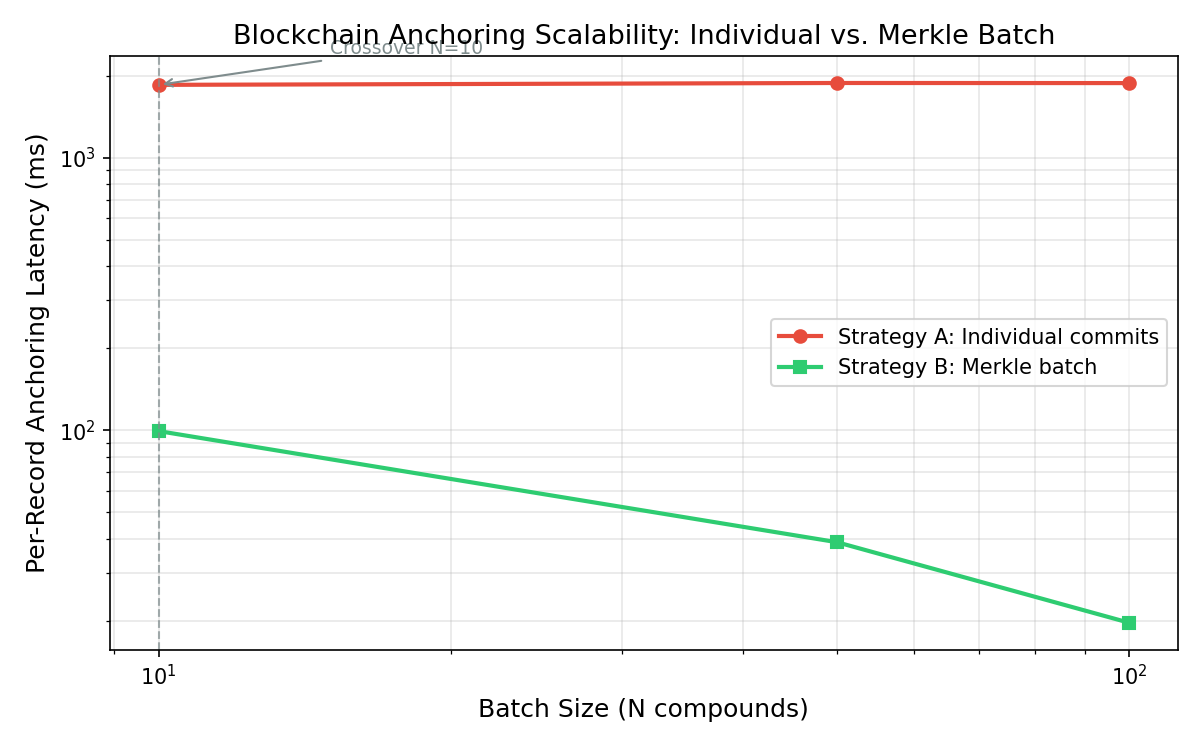
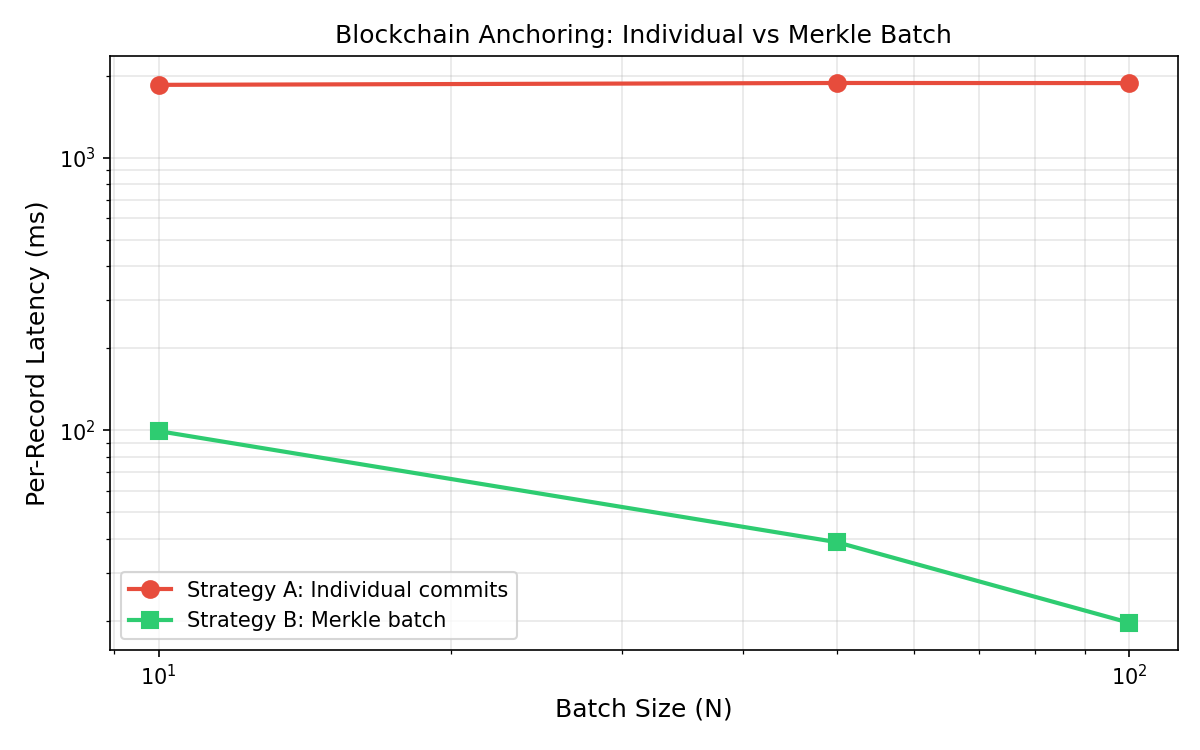
Add all 7 paper figures (V-B through V-H)
- fig_vb: Edge throughput grouped bars (CHEMBL243 + hERG with OOM labels)
- fig_vc: PoA2 consensus latency bars with min/max error + P95 markers
- fig_vd: MQTT sequential vs async pipeline + E2E latency per message
- fig_ve: Scalability crossover plot with speedup annotations (real chain)
- fig_vf: ONNX inference latency horizontal bars (log scale, all DET)
- fig_vg: Tamper detection hash divergence visual (green/red)
- fig_vh: Blockchain overhead bar chart (+1.4s/41% vs +0.7s/4.9%)

diff --git a/experiments/generate_all_figures.py b/experiments/generate_all_figures.py
@@ -1,0 +1,341 @@
+#!/usr/bin/env python3
+"""
+Generate all paper figures for the IoT reframing sections V-B through V-H.
+Reads from results/ JSON/CSV files. Outputs PNG to results/paper_tables/.
+"""
+
+import os
+import sys
+import json
+
+import numpy as np
+import pandas as pd
+import matplotlib
+matplotlib.use("Agg")
+import matplotlib.pyplot as plt
+import matplotlib.patches as mpatches
+
+PROJECT_ROOT = os.path.dirname(os.path.dirname(os.path.abspath(__file__)))
+RESULTS = os.path.join(PROJECT_ROOT, "results")
+OUT = os.path.join(RESULTS, "paper_tables")
+os.makedirs(OUT, exist_ok=True)
+
+COLORS = ["#3498db", "#2ecc71", "#f39c12", "#e74c3c", "#9b59b6"]
+
+
+def fig_vb_edge():
+    """V-B: Throughput grouped bar chart — both targets side by side."""
+    df = pd.read_csv(os.path.join(RESULTS, "edge_benchmark.csv"))
+
+    fig, axes = plt.subplots(1, 2, figsize=(14, 5), sharey=False)
+    tiers = ["server", "rpi4", "jetson_nano", "constrained"]
+    tier_labels = ["Server", "RPi4", "Jetson\nNano", "Constrained"]
+
+    for ax, target, title in zip(
+        axes,
+        ["CHEMBL243", "CHEMBL240"],
+        ["CHEMBL243 (HIV-1 Protease, 67 MB)", "CHEMBL240 (hERG, 322 MB)"],
+    ):
+        tdf = df[df["target"] == target]
+        batch_sizes = sorted(tdf["n_compounds"].unique())
+        x = np.arange(len(tiers))
+        width = 0.2
+
+        for i, N in enumerate(batch_sizes):
+            vals = []
+            for t in tiers:
+                sel = tdf[(tdf["profile"] == t) & (tdf["n_compounds"] == N)]
+                if not sel.empty and sel.iloc[0]["success"]:
+                    vals.append(sel.iloc[0]["throughput_cpm"])
+                else:
+                    vals.append(0)
+            bars = ax.bar(x + (i - len(batch_sizes)/2 + 0.5) * width, vals,
+                          width, label=f"N={N}", color=COLORS[i % len(COLORS)])
+            # Mark OOM
+            for j, v in enumerate(vals):
+                if v == 0:
+                    ax.text(x[j] + (i - len(batch_sizes)/2 + 0.5) * width, 50,
+                            "OOM", ha="center", va="bottom", fontsize=7,
+                            color="red", fontweight="bold")
+
+        ax.set_xlabel("Hardware Tier", fontsize=11)
+        ax.set_ylabel("Throughput (compounds / min)", fontsize=11)
+        ax.set_xticks(x)
+        ax.set_xticklabels(tier_labels, fontsize=9)
+        ax.set_title(title, fontsize=11)
+        ax.legend(fontsize=8, title="Batch size")
+        ax.grid(True, alpha=0.3, axis="y")
+
+    fig.suptitle("Fig. V-B: Edge Deployment Throughput", fontsize=13, y=1.02)
+    fig.tight_layout()
+    path = os.path.join(OUT, "fig_vb_edge_throughput.png")
+    fig.savefig(path, dpi=150, bbox_inches="tight")
+    plt.close(fig)
+    print(f"  {path}")
+
+
+def fig_vc_consensus():
+    """V-C: Consensus latency — baseline vs sustained with error bars."""
+    with open(os.path.join(RESULTS, "failure_test.json")) as f:
+        d = json.load(f)
+
+    bl = d["baseline_latencies"]
+    sl = d["sustained_latencies"]
+    n_val = d.get("validators", {}).get("count", "?")
+
+    fig, ax = plt.subplots(figsize=(7, 4.5))
+
+    labels = [f"Baseline\n(N={bl['n']})", f"Sustained\n(N={sl['n']})"]
+    medians = [bl["median_ms"], sl["median_ms"]]
+    mins = [bl["min_ms"], sl["min_ms"]]
+    maxs = [bl["max_ms"], sl["max_ms"]]
+    p95s = [bl["p95_ms"], sl["p95_ms"]]
+
+    x = np.arange(len(labels))
+    bars = ax.bar(x, medians, 0.5, color=[COLORS[0], COLORS[1]], edgecolor="black",
+                  linewidth=0.5)
+    # Error bars: min to max
+    ax.errorbar(x, medians,
+                yerr=[[m - mn for m, mn in zip(medians, mins)],
+                      [mx - m for m, mx in zip(medians, maxs)]],
+                fmt="none", ecolor="black", capsize=8, linewidth=1.5)
+    # P95 markers
+    ax.scatter(x, p95s, marker="v", color="red", zorder=5, s=60, label="P95")
+
+    ax.set_ylabel("Consensus Latency (ms)", fontsize=11)
+    ax.set_xticks(x)
+    ax.set_xticklabels(labels, fontsize=10)
+    ax.set_title(f"Fig. V-C: PureChain PoA2 Consensus Latency ({n_val} validators)",
+                 fontsize=12)
+    ax.legend(fontsize=9)
+    ax.grid(True, alpha=0.3, axis="y")
+
+    # Annotate medians
+    for i, v in enumerate(medians):
+        ax.text(i, v + 50, f"{v:.0f} ms", ha="center", fontsize=9, fontweight="bold")
+
+    fig.tight_layout()
+    path = os.path.join(OUT, "fig_vc_consensus_latency.png")
+    fig.savefig(path, dpi=150)
+    plt.close(fig)
+    print(f"  {path}")
+
+
+def fig_vd_mqtt():
+    """V-D: MQTT per-message latency — sequential vs async stacked."""
+    seq = pd.read_csv(os.path.join(RESULTS, "mqtt_benchmark.csv"))
+    async_df = pd.read_csv(os.path.join(RESULTS, "mqtt_benchmark_async.csv"))
+
+    fig, ax = plt.subplots(figsize=(8, 5))
+
+    jobs = range(len(seq))
+    width = 0.35
+    x = np.arange(len(jobs))
+
+    ax.bar(x - width/2, seq["pipeline_ms"] / 1000, width,
+           label="Sequential (pipeline)", color=COLORS[0])
+    ax.bar(x + width/2, async_df["pipeline_ms"] / 1000, width,
+           label="Async (pipeline)", color=COLORS[1])
+
+    # Overlay E2E as markers
+    ax.scatter(x - width/2, seq["latency_ms"] / 1000, marker="_", s=200,
+               color="black", zorder=5, linewidths=2)
+    ax.scatter(x + width/2, async_df["latency_ms"] / 1000, marker="_", s=200,
+               color="red", zorder=5, linewidths=2)
+
+    ax.set_xlabel("Message #", fontsize=11)
+    ax.set_ylabel("Time (seconds)", fontsize=11)
+    ax.set_xticks(x)
+    ax.set_xticklabels([f"{i}" for i in jobs], fontsize=9)
+    ax.set_title("Fig. V-D: MQTT Per-Message Latency (Sequential vs Async)",
+                 fontsize=12)
+
+    # Custom legend
+    handles = [
+        mpatches.Patch(color=COLORS[0], label="Sequential pipeline"),
+        mpatches.Patch(color=COLORS[1], label="Async pipeline"),
+        plt.Line2D([0], [0], marker="_", color="black", linestyle="None",
+                   markersize=10, markeredgewidth=2, label="Sequential E2E"),
+        plt.Line2D([0], [0], marker="_", color="red", linestyle="None",
+                   markersize=10, markeredgewidth=2, label="Async E2E"),
+    ]
+    ax.legend(handles=handles, fontsize=8, loc="upper left")
+    ax.grid(True, alpha=0.3, axis="y")
+
+    fig.tight_layout()
+    path = os.path.join(OUT, "fig_vd_mqtt_latency.png")
+    fig.savefig(path, dpi=150)
+    plt.close(fig)
+    print(f"  {path}")
+
+
+def fig_ve_scalability():
+    """V-E: Scalability crossover — already exists, regenerate with better style."""
+    df = pd.read_csv(os.path.join(RESULTS, "scalability_benchmark.csv"))
+
+    fig, ax = plt.subplots(figsize=(8, 5))
+
+    ax.plot(df["N"], df["strategy_a_per_record_ms"], "o-", color=COLORS[3],
+            linewidth=2, markersize=8, label="Strategy A: Individual commits")
+    ax.plot(df["N"], df["strategy_b_per_record_ms"], "s-", color=COLORS[1],
+            linewidth=2, markersize=8, label="Strategy B: Merkle batch")
+
+    # Annotate speedup
+    for _, row in df.iterrows():
+        ax.annotate(f"{row['speedup_factor']:.0f}x",
+                    xy=(row["N"], row["strategy_b_per_record_ms"]),
+                    xytext=(0, -18), textcoords="offset points",
+                    ha="center", fontsize=9, color=COLORS[1], fontweight="bold")
+
+    ax.set_xscale("log")
+    ax.set_yscale("log")
+    ax.set_xlabel("Batch Size (N compounds)", fontsize=12)
+    ax.set_ylabel("Per-Record Anchoring Latency (ms)", fontsize=12)
+    ax.set_title("Fig. V-E: Blockchain Scalability — Individual vs Merkle Batch\n"
+                 "(Real PureChain Mainnet)", fontsize=12)
+    ax.legend(fontsize=10)
+    ax.grid(True, alpha=0.3, which="both")
+    fig.tight_layout()
+    path = os.path.join(OUT, "fig_ve_scalability.png")
+    fig.savefig(path, dpi=150)
+    plt.close(fig)
+    # Also overwrite the old one
+    fig2_path = os.path.join(RESULTS, "scalability_figure.png")
+    fig, ax2 = plt.subplots(figsize=(8, 5))
+    ax2.plot(df["N"], df["strategy_a_per_record_ms"], "o-", color=COLORS[3],
+             linewidth=2, markersize=8, label="Strategy A: Individual commits")
+    ax2.plot(df["N"], df["strategy_b_per_record_ms"], "s-", color=COLORS[1],
+             linewidth=2, markersize=8, label="Strategy B: Merkle batch")
+    ax2.set_xscale("log"); ax2.set_yscale("log")
+    ax2.set_xlabel("Batch Size (N)", fontsize=12)
+    ax2.set_ylabel("Per-Record Latency (ms)", fontsize=12)
+    ax2.set_title("Blockchain Anchoring: Individual vs Merkle Batch", fontsize=12)
+    ax2.legend(fontsize=10); ax2.grid(True, alpha=0.3, which="both")
+    fig.tight_layout(); fig.savefig(fig2_path, dpi=150); plt.close(fig)
+    print(f"  {path}")
+
+
+def fig_vf_onnx():
+    """V-F: ONNX inference latency per model."""
+    with open(os.path.join(RESULTS, "onnx_determinism.json")) as f:
+        d = json.load(f)
+
+    models = sorted(d["determinism"].keys())
+    latencies = [d["determinism"][m]["inference_latency_ms"] for m in models]
+    labels = [m.replace("reg_", "R:").replace("clf_", "C:") for m in models]
+    colors = [COLORS[1] if d["concordance"][m].get("concordance") else COLORS[3]
+              for m in models]
+
+    fig, ax = plt.subplots(figsize=(9, 4.5))
+    bars = ax.barh(range(len(models)), latencies, color=colors, edgecolor="black",
+                   linewidth=0.5)
+    ax.set_yticks(range(len(models)))
+    ax.set_yticklabels(labels, fontsize=10)
+    ax.set_xlabel("Inference Latency per Run (ms)", fontsize=11)
+    ax.set_title("Fig. V-F: ONNX Inference Latency (40 runs, all bitwise-identical)",
+                 fontsize=12)
+    ax.set_xscale("log")
+    ax.grid(True, alpha=0.3, axis="x", which="both")
+
+    for i, (v, m) in enumerate(zip(latencies, models)):
+        det = "DET" if d["determinism"][m]["bitwise_identical"] else "FAIL"
+        ax.text(v * 1.3, i, f"{v:.1f} ms [{det}]", va="center", fontsize=8)
+
+    fig.tight_layout()
+    path = os.path.join(OUT, "fig_vf_onnx_latency.png")
+    fig.savefig(path, dpi=150)
+    plt.close(fig)
+    print(f"  {path}")
+
+
+def fig_vg_tamper():
+    """V-G: Tamper detection — hash divergence visual."""
+    with open(os.path.join(RESULTS, "tamper_demo.json")) as f:
+        d = json.load(f)
+
+    orig = d["original_hash"]
+    tamp = d["tampered_hash"]
+
+    fig, ax = plt.subplots(figsize=(10, 3))
+    ax.axis("off")
+
+    y = 0.75
+    ax.text(0.02, y, "Original:", fontsize=11, fontweight="bold", family="monospace",
+            transform=ax.transAxes)
+    ax.text(0.15, y, orig, fontsize=9, family="monospace", color="green",
+            transform=ax.transAxes)
+
+    y = 0.45
+    ax.text(0.02, y, "Tampered:", fontsize=11, fontweight="bold", family="monospace",
+            transform=ax.transAxes)
+    ax.text(0.15, y, tamp, fontsize=9, family="monospace", color="red",
+            transform=ax.transAxes)
+
+    y = 0.15
+    mod = d["modification"]
+    ax.text(0.02, y, f"Change: {mod}", fontsize=10, family="monospace",
+            transform=ax.transAxes)
+    ax.text(0.60, y, f"Block: {d['block_number']}   Verified: {d['onchain_original_verified']}   "
+            f"Tamper rejected: {d['onchain_tamper_rejected']}",
+            fontsize=9, transform=ax.transAxes)
+
+    ax.set_title("Fig. V-G: Tamper Detection — SHA-256 Hash Divergence", fontsize=12,
+                 pad=10)
+    fig.tight_layout()
+    path = os.path.join(OUT, "fig_vg_tamper.png")
+    fig.savefig(path, dpi=150, bbox_inches="tight")
+    plt.close(fig)
+    print(f"  {path}")
+
+
+def fig_vh_overhead():
+    """V-H: Blockchain overhead — bar chart with/without."""
+    with open(os.path.join(RESULTS, "overhead_baseline.json")) as f:
+        d = json.load(f)
+
+    targets = list(d.keys())
+    labels = [f"{t}\n({d[t]['n_compounds']} cpds)" for t in targets]
+
+    pipe_only = [d[t]["pipeline_only_median_s"] for t in targets]
+    pipe_bc = [d[t]["pipeline_with_blockchain_median_s"] for t in targets]
+    overhead = [d[t]["blockchain_overhead_s"] for t in targets]
+
+    fig, ax = plt.subplots(figsize=(7, 5))
+    x = np.arange(len(targets))
+    width = 0.3
+
+    ax.bar(x - width/2, pipe_only, width, label="Pipeline only", color=COLORS[0])
+    ax.bar(x + width/2, pipe_bc, width, label="Pipeline + PureChain", color=COLORS[3])
+
+    # Annotate overhead
+    for i in range(len(targets)):
+        pct = d[targets[i]]["blockchain_overhead_pct"]
+        ax.annotate(f"+{overhead[i]:.1f}s ({pct}%)",
+                    xy=(x[i] + width/2, pipe_bc[i]),
+                    xytext=(0, 8), textcoords="offset points",
+                    ha="center", fontsize=9, fontweight="bold", color=COLORS[3])
+
+    ax.set_ylabel("Median Wall-Clock Time (s)", fontsize=11)
+    ax.set_xticks(x)
+    ax.set_xticklabels(labels, fontsize=10)
+    ax.set_title("Fig. V-H: Blockchain Anchoring Overhead", fontsize=12)
+    ax.legend(fontsize=10)
+    ax.grid(True, alpha=0.3, axis="y")
+
+    fig.tight_layout()
+    path = os.path.join(OUT, "fig_vh_overhead.png")
+    fig.savefig(path, dpi=150)
+    plt.close(fig)
+    print(f"  {path}")
+
+
+if __name__ == "__main__":
+    print("Generating all paper figures...")
+    fig_vb_edge()
+    fig_vc_consensus()
+    fig_vd_mqtt()
+    fig_ve_scalability()
+    fig_vf_onnx()
+    fig_vg_tamper()
+    fig_vh_overhead()
+    print("\nDone. All figures in results/paper_tables/")
